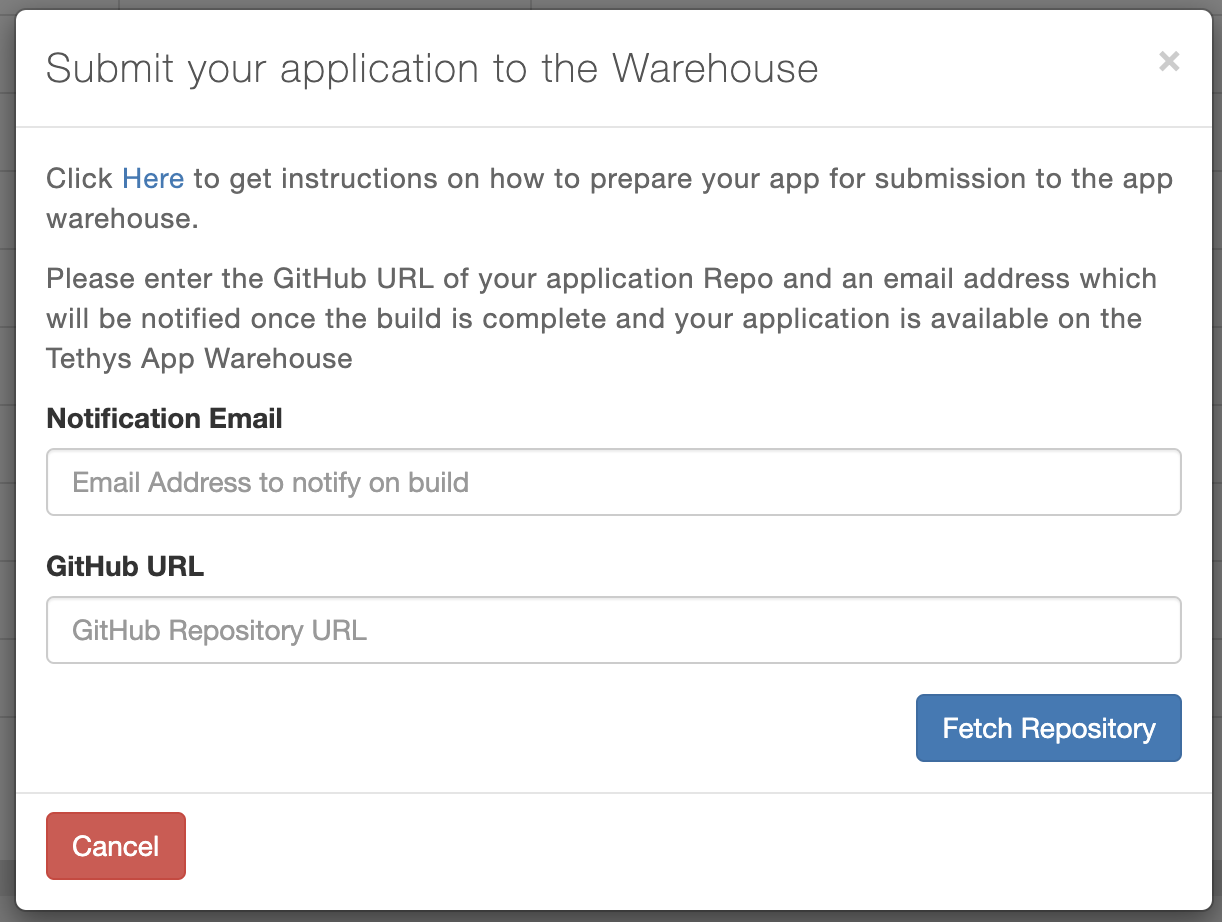
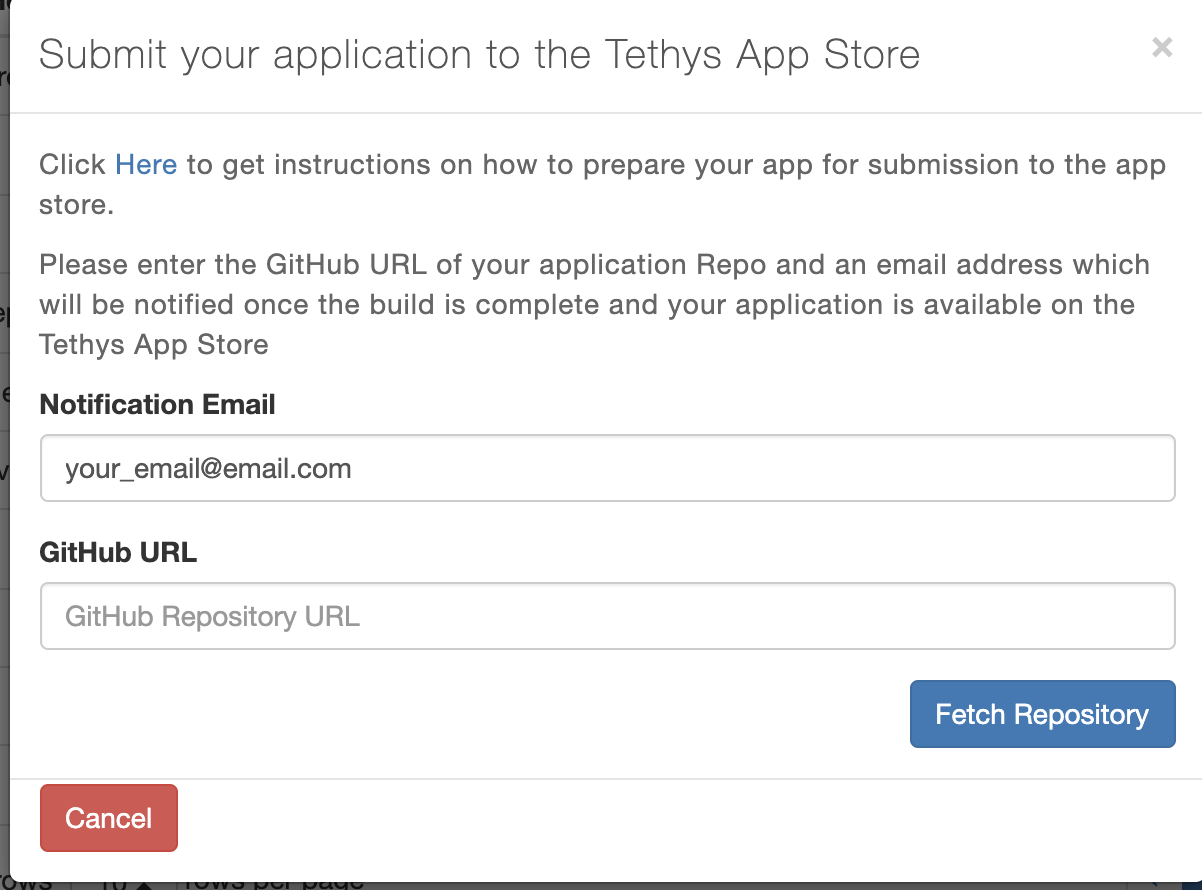
Recommended Changes based on the PR

Changed region(s): [[0.0, 0.0, 1.0, 1.0]]

diff --git a/tethysapp/app_store/templates/app_store/home.html b/tethysapp/app_store/templates/app_store/home.html
@@ -15,7 +15,7 @@
 
 {% block header_buttons %}
 <div class="header-button glyphicon-button" data-toggle="tooltip" data-placement="bottom" title="Help">
-    <a data-toggle="modal" data-target="#help-modal"><span class="glyphicon glyphicon-question-sign"></span></a>
+    <a target="_blank" href="//tethys-app-store.readthedocs.io"><span class="glyphicon glyphicon-question-sign"></span></a>
 </div>
 <div class="header-button glyphicon-button" data-toggle="tooltip" data-placement="bottom" title="Add App">
     <a data-toggle="modal" data-target="#add-app-modal"><span class="glyphicon glyphicon-plus-sign"></span></a>

diff --git a/README.md b/README.md
@@ -1,11 +1,11 @@
-# Tethys Application Store
+# Tethys App Store
 
-[![License (3-Clause BSD)](https://img.shields.io/badge/license-BSD%203--Clause-yellow.svg)](https://github.com/BYU-Hydroinformatics/warehouse/blob/master/LICENSE)
+[![License (3-Clause BSD)](https://img.shields.io/badge/license-BSD%203--Clause-yellow.svg)](https://github.com/BYU-Hydroinformatics/tethysapp-tethys_app_store/blob/master/LICENSE)
 
-[![Build Status](https://github.com/BYU-Hydroinformatics/app_store/workflows/main/badge.svg)](https://github.com/BYU-Hydroinformatics/app_store/actions)
+[![Build Status](https://github.com/BYU-Hydroinformatics/tethysapp-tethys_app_store/workflows/main/badge.svg)](https://github.com/BYU-Hydroinformatics/tethysapp-tethys_app_store/actions)
 
 A Tethys application to discover, install and manage Tethys applications for a Tethys Portal. This project is developed by Rohit Khattar as a part of a Doctorate degree in Civil and Environmental Engineering at Brigham Young University.
 
 ## Documentation:
 
-See: [ReadTheDocs](https://app-store.readthedocs.io/en/latest/) : https://app-store.readthedocs.io
+See: [ReadTheDocs](https://tethys-app-store.readthedocs.io/en/latest/) : https://tethys-app-store.readthedocs.io

diff --git a/docs/compatibility.rst b/docs/compatibility.rst
@@ -1,3 +1,9 @@
 =============
 Compatibility
 =============
+
+
+- Python version 3.7 or higher: https://www.python.org/downloads/
+- Miniconda (Conda) for Python version 3.7 or higher: https://docs.conda.io/en/latest/miniconda.html
+- Tethys Platform version 3.0 or higher: http://docs.tethysplatform.org/en/stable/installation.html
+- The software has been tested with Conda environments setup on Ubuntu 16+, MacOS X+, and Windows 10

diff --git a/docs/index.rst b/docs/index.rst
@@ -20,8 +20,5 @@ The Tethys App Store is similar in concept to the iOS App Store for Apple mobile
   app-submit
   production
   compatibility
-  publications
-  future
-  dev-funding
   github-install
 
